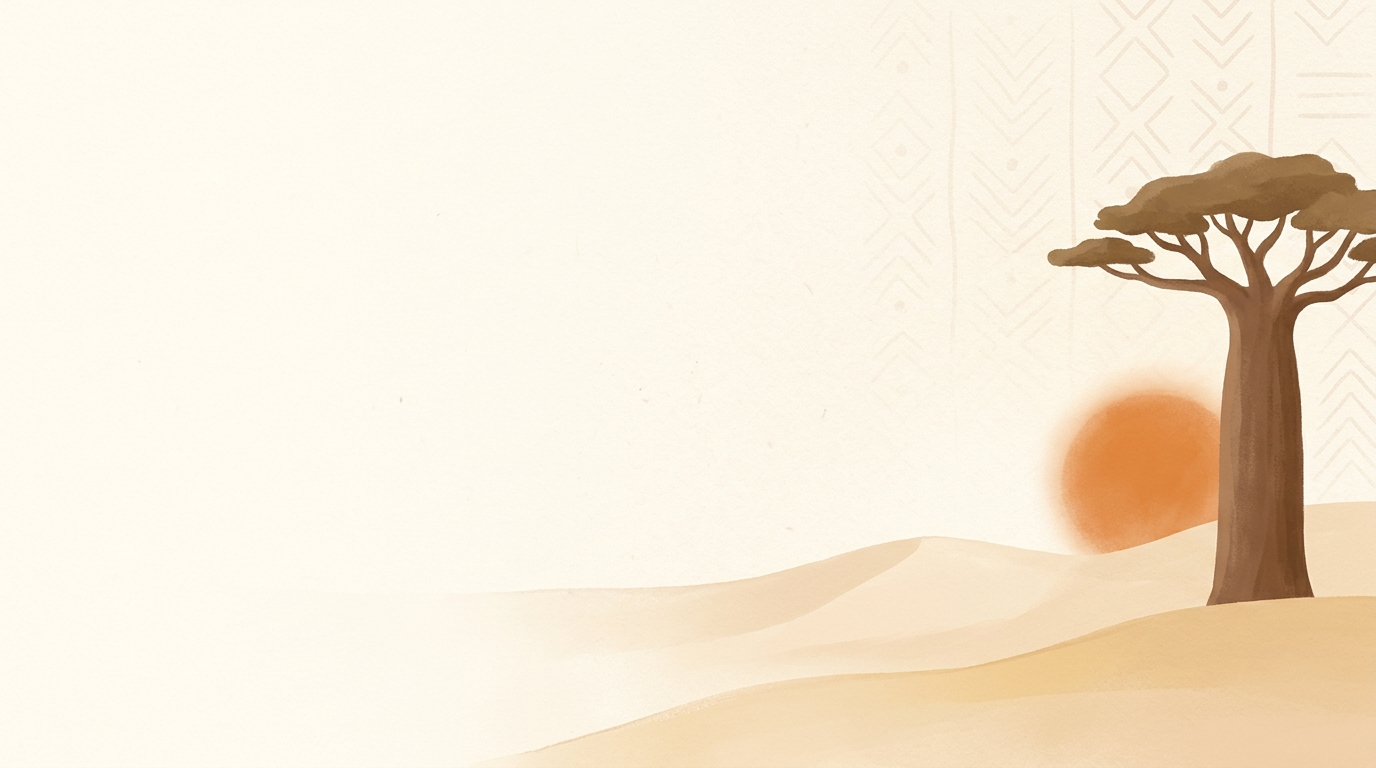
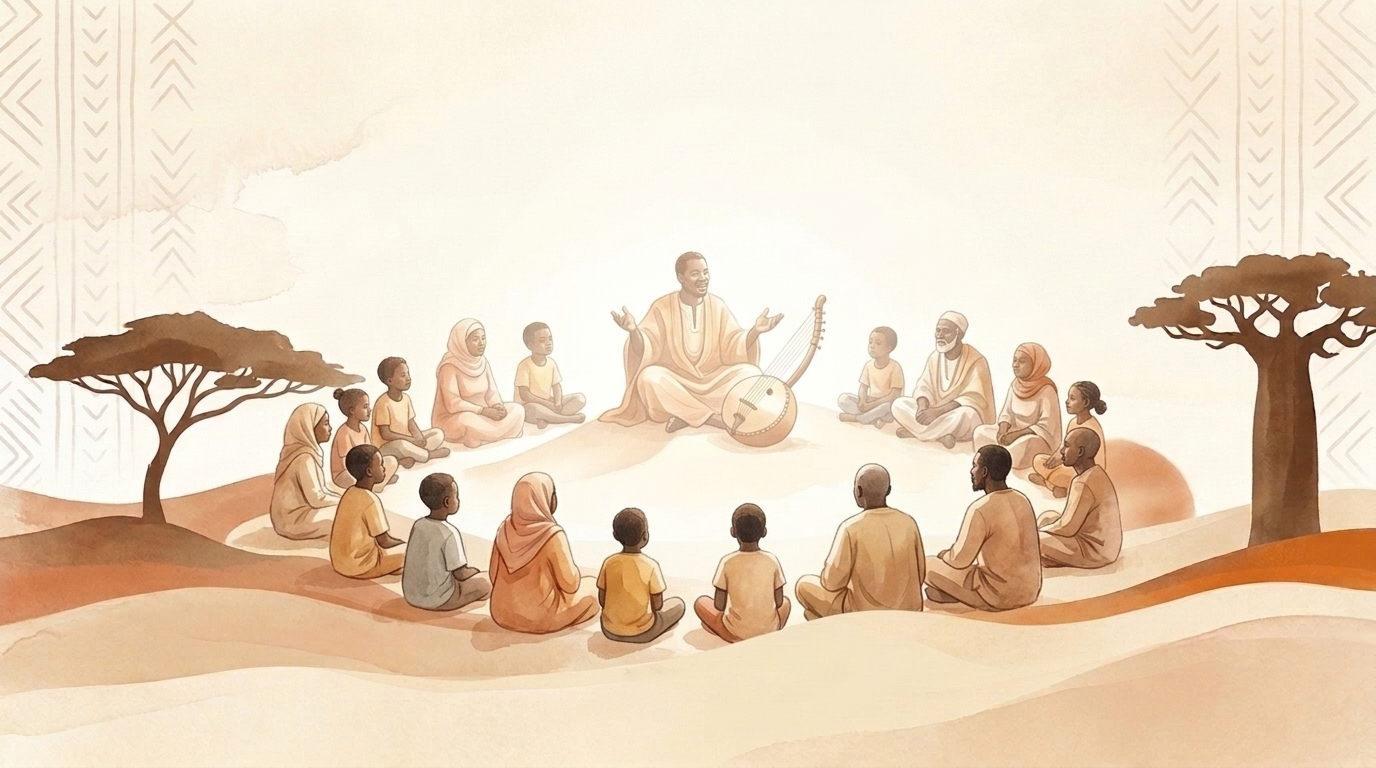
zirinv3

diff --git a/src/pages/HomePage.tsx b/src/pages/HomePage.tsx
@@ -1,51 +1,65 @@
-import { ArrowRight, BookOpen, Target } from 'lucide-react';
+import { ArrowRight, BookOpen, Sparkles, Target } from 'lucide-react';
+import { Link } from 'react-router-dom';
 import { ActionLink } from '../components/ui/Button';
 import { HomeBackdrop } from '../components/ui/HomeBackdrop';
 import { ZirinBrand } from '../components/ui/ZirinBrand';
 
 export function HomePage() {
   return (
-    <section className="relative flex min-h-dvh w-full flex-col justify-between overflow-hidden px-6 pt-6 pb-28 sm:px-10 sm:pt-8 sm:pb-32 lg:h-full lg:min-h-0 lg:px-16">
+    <section className="relative flex min-h-dvh w-full flex-col justify-between overflow-hidden px-6 pt-5 pb-24 sm:px-10 sm:pt-7 sm:pb-28 lg:h-full lg:min-h-0 lg:px-16">
       <HomeBackdrop />
 
       {/* Top brand bar */}
       <header className="relative z-10 mx-auto flex w-full max-w-5xl items-center justify-between">
         <ZirinBrand />
-        <span className="rounded-full border border-zirin-brown/15 bg-zirin-ivory/80 px-3.5 py-1 text-xs font-medium text-zirin-brown backdrop-blur-sm">
-          Contes &amp; Devinettes
-        </span>
+        <Link
+          to="/contes"
+          className="group inline-flex items-center gap-2.5 rounded-full border border-zirin-brown/15 bg-zirin-ivory/90 py-1.5 pr-4 pl-2 text-sm font-semibold text-zirin-brown shadow-sm backdrop-blur-sm transition-all duration-200 hover:border-zirin-primary/40 hover:bg-zirin-ivory hover:shadow focus-visible:outline-2 focus-visible:outline-offset-4 focus-visible:outline-zirin-primary"
+        >
+          <span
+            aria-hidden="true"
+            className="flex h-8 w-8 items-center justify-center rounded-full bg-zirin-primary/15 text-zirin-primary transition-transform duration-200 group-hover:scale-105"
+          >
+            <Sparkles className="h-4 w-4" />
+          </span>
+          <span>Contes &amp; Devinettes</span>
+        </Link>
       </header>
 
-      {/* Hero core */}
-      <div className="relative z-10 mx-auto my-auto flex w-full max-w-4xl flex-col items-center py-10 text-center sm:py-12">
-        <p className="text-sm font-semibold tracking-wide text-zirin-primary-text uppercase">
+      {/* Hero core — centered right over the griot at the heart of the circle */}
+      <div className="relative z-10 mx-auto my-auto flex w-full max-w-3xl flex-col items-center py-4 text-center">
+        <p className="rounded-full bg-zirin-ivory/75 px-3.5 py-1 text-xs font-bold tracking-wider text-zirin-primary-text uppercase shadow-2xs backdrop-blur-[2px] sm:text-sm">
           Patrimoine oral malien et africain
         </p>
 
-        <h1 className="mt-4 max-w-3xl text-4xl leading-[1.12] font-bold text-zirin-brown sm:text-5xl lg:text-6xl">
+        <h1 className="mt-3 max-w-2xl text-3xl leading-[1.1] font-bold text-zirin-brown [text-shadow:0_2px_18px_rgba(255,249,240,0.98),0_0_8px_rgba(255,249,240,0.95)] sm:mt-4 sm:text-5xl lg:text-[3.25rem]">
           Les contes de notre enfance reprennent vie.
         </h1>
 
-        <p className="mt-5 max-w-xl text-base leading-relaxed text-zirin-ink-muted sm:text-lg">
+        <p className="mt-3 max-w-xl text-sm leading-relaxed font-semibold text-zirin-ink [text-shadow:0_1px_14px_rgba(255,249,240,0.98),0_0_6px_rgba(255,249,240,0.95)] sm:mt-4 sm:text-base lg:text-lg">
           Lisez des récits transmis de génération en génération et testez votre
           esprit avec des devinettes pensées pour les petits et les grands.
         </p>
 
-        <div className="mt-8 flex w-full flex-col items-center justify-center gap-3.5 sm:w-auto sm:flex-row">
-          <ActionLink to="/contes" variant="primary" className="w-full sm:w-auto">
+        <div className="mt-6 flex w-full flex-col items-center justify-center gap-3 sm:mt-7 sm:w-auto sm:flex-row sm:gap-3.5">
+          <ActionLink to="/contes" variant="primary" className="w-full shadow-md sm:w-auto">
             <BookOpen className="h-5 w-5" aria-hidden="true" />
             <span>Découvrir les contes</span>
             <ArrowRight className="h-4 w-4" aria-hidden="true" />
           </ActionLink>
 
-          <ActionLink to="/devinettes" variant="secondary" className="w-full sm:w-auto">
+          <ActionLink
+            to="/devinettes"
+            variant="secondary"
+            className="w-full bg-zirin-ivory/95 shadow-sm backdrop-blur-xs sm:w-auto"
+          >
             <Target className="h-5 w-5" aria-hidden="true" />
             <span>Jouer aux devinettes</span>
           </ActionLink>
         </div>
       </div>
 
-      {/* Subtle footer spacer to balance desktop composition above the floating dock */}
+      {/* Bottom spacer to balance vertical centering above the floating dock */}
       <div className="relative z-10 mx-auto hidden w-full max-w-5xl lg:block" aria-hidden="true" />
     </section>
   );

diff --git a/src/components/ui/HomeBackdrop.tsx b/src/components/ui/HomeBackdrop.tsx
@@ -1,8 +1,8 @@
 /**
  * Illustrative hero backdrop inspired by West African storytelling evenings
- * (warm Sahel horizon, baobab silhouette, discreet bogolan-inspired geometry).
- * Decorative only (aria-hidden), with a subtle ivory scrim on the left to
- * preserve text contrast across all viewport sizes.
+ * (warm Sahel horizon, baobab & acacia silhouettes, griot storytelling scene).
+ * Decorative only (aria-hidden), positioned so the griot sits cleanly between
+ * the hero CTA buttons and the bottom navigation dock without any blurry veil.
  */
 export function HomeBackdrop() {
   return (
@@ -11,19 +11,19 @@ export function HomeBackdrop() {
       className="pointer-events-none absolute inset-0 overflow-hidden select-none"
     >
       <img
-        src="/images/hero-bg.jpg"
+        src="/images/hero-bg-circle.jpg"
         alt=""
         decoding="async"
         fetchPriority="high"
-        className="h-full w-full object-cover object-right-bottom"
+        className="h-full w-full object-cover object-center"
       />
 
-      {/* Soft centered ivory readability veil */}
+      {/* Ultra-light central glow so both the griot behind the text and the typography stay crisp */}
       <div
         className="absolute "
         style={{
           background:
-            'radial-gradient(ellipse 75% 65% at 50% 48%, rgba(255, 249, 240, 0.78) 0%, rgba(255, 249, 240, 0.42) 60%, rgba(255, 249, 240, 0.12) 100%)',
+            'radial-gradient(ellipse 46% 36% at 50% 46%, rgba(255, 249, 240, 0.28) 0%, rgba(255, 249, 240, 0) 100%)',
         }}
       />
     </div>
